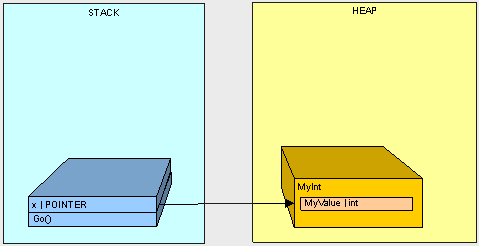
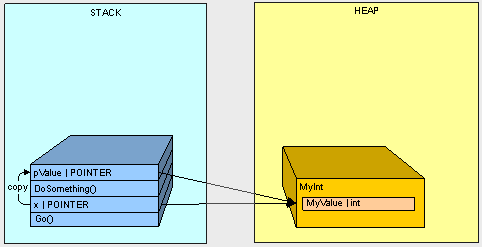
GitBook: [master] one page and 12 assets modified

Changed region(s): [[0.0, 0.0, 1.0, 0.9959], [0.1754, 0.0285, 0.263, 0.0854], [0.7307, 0.0285, 0.7891, 0.0569]]

diff --git a/c/c-essential-element/c-programming-language.md b/c/c-essential-element/c-programming-language.md
@@ -209,6 +209,12 @@ public int AddFive(int pValue)
 
 ![](../../.gitbook/assets/image%20%28172%29.png)
 
+
+
+
+
+
+
 ### Reference type 유형의 Class를 사용하여 Value type을 선언한다면?
 
 * C\#은 Multi - paradigmed의 스타일을 가졌기 때문에 여러 스타일에 대응이 되기 위해서 Reference type의 Class, 혹은 Array를 선언하여 하는 경우가 있습니다.
@@ -272,9 +278,11 @@ public int ReturnValue2()
 * MyInt x = new MyInt\(\); / MyInt y = new MyInt\(\);
 * 두 문장은 얼핏보면 다른 객체를 생성하는 것 같지만 실상은, 아래의 그림과 같습니다.
 
-![](../../.gitbook/assets/image%20%28180%29.png)
+![](../../.gitbook/assets/image%20%28181%29.png)
 
 * 각각 Pointer 형식 x, y라는 주소가 같은 객체에 접근하기 때문에, 위의 Code를 출력하면 결국 값은 변하지 않고 4를 출력하게 됩니다.
+
+
 
 
 
@@ -311,15 +319,15 @@ class Class1 {
 
 * 위와 같은 Code가 존재할 때 Stack은 다음 그림과 같이 존재하게 됩니다.
 
-![](../../.gitbook/assets/image%20%28187%29.png)
+![](../../.gitbook/assets/image%20%28189%29.png)
 
 * 다음으로 AddFive함수와 parameter의 데이터가 메모리에 할당되고, **int x는 AddFive의 parameter에 복사됩니다.**
 
-![](../../.gitbook/assets/image%20%28185%29.png)
+![](../../.gitbook/assets/image%20%28187%29.png)
 
 * AddFive\(\) 함수의 실행이 종료된다면, 다시 Go\(\) 함수로 전달이 되고 사용이 끝난 데이터들은 제거됩니다.
 
-![](../../.gitbook/assets/image%20%28188%29.png)
+![](../../.gitbook/assets/image%20%28190%29.png)
 
 #### Stack과 Heap을 사용하는 코드에 대한 메모리 할
 
@@ -342,7 +350,7 @@ public void DoSomething(MyStruct pValue) {
 
 * 위와 같은 Code가 존재할 때 Stack에서는 메모리를 아래와 같이 할당합니다.
 
-![](../../.gitbook/assets/image%20%28181%29.png)
+![](../../.gitbook/assets/image%20%28182%29.png)
 
 * 실제로 위의 그림과 같이 복사본 자체가 용량이 커지기 때문에 특정 상황에서는 굉장히 비효율적일 수 있습니다.
 * 해당 문제를 해결하기 위해 Passing Reference type or Call by Reference와 같은 방법으로 parameter를 전달합니다.
@@ -366,7 +374,13 @@ public void DoSomething(ref MyStruct pValue) {
   * Pointer를 통해 이미 할당되어 있는 메모리의 주소를 가지게 하여 구조체에 접근합니다.
   * 해당 Code에 관한 메모리 할당은 아래의 그림과 같습니다.
 
-![](../../.gitbook/assets/image%20%28179%29.png)
+![](../../.gitbook/assets/image%20%28180%29.png)
+
+
+
+
+
+
 
 ### Passing Reference types
 
@@ -386,7 +400,7 @@ public void Go() {
 
 * 위와 같은 코드는 아래의 그림과 같은 메모리 할당을 가지고 있습니다.
 
-![](../../.gitbook/assets/image%20%28186%29.png)
+![](../../.gitbook/assets/image%20%28188%29.png)
 
 * 위의 코드에서 Go\(\) 함수의 동작을 약간 변형하면 아래와 같습니다.
 
@@ -407,7 +421,7 @@ public void DoSomething(MyInt pValue) {
 
 * 위의 코드에서 실행되는 메모리 할당은 아래와 같습니다.
 
-![](../../.gitbook/assets/image%20%28184%29.png)
+![](../../.gitbook/assets/image%20%28186%29.png)
 
 * 그리고 메모리 할당의 순서는 다음과 같습니다.
 
@@ -418,6 +432,39 @@ public void DoSomething(MyInt pValue) {
 5. DoSomething은 MyInt Class parameter를 가지고 있기 때문에, 이 parameter에 대한 메모리를 할당합니다.
 6. MyInt Class의 멤버 변수인 MyValue에 접근하여 값을 할당하고 할당한 값은 Heap에서의 MyInt 메모리의 멤버변수에 할당합니다.
 7. 마지막으로 Stack의 MyInt Class를 동적 할당한 메모리를 가리키고 있는 x라는 변수의 멤버변수를 ToString\(\)을 통해 string으로 변하여 출력합니다.
+
+이번엔 상속된 Class 메모리 할당과 할당된 메모리의 값을 변경하는 과정에서의 Stack, Heap 동작을 살펴 보겠습니다.
+
+```csharp
+public class Thing  {  }  
+public class Animal:Thing  {  public int Weight;  }  
+public class Vegetable:Thing  {  public int Length;  }  
+
+public void Go()   {  
+   Thing x = new Animal();  
+   Switcharoo(ref x);  
+    Console.WriteLine("x is Animal    :   "  + (x is Animal).ToString());  
+    Console.WriteLine("x is Vegetable :   "  + (x is Vegetable).ToString());  
+}  
+
+public void Switcharoo(ref Thing pValue)  {  
+     pValue = new Vegetable();  
+}  
+```
+
+* 출력된 결과는 아래와 같습니다.
+  * x is Animal : False
+  * x is Vegetable : True
+* Thing의 자식 Class인 Animal Class를 동적할당하여 Thing Class 변수인 x에 할당하고 있습니다.
+* 다음으로 Switcharoo\(\) 함수를 통하여 parameter인 Thing Class 변수 pValue를 ref 키워드를 사용하여 실제 메모리에 할당된 값을 변경합니다.
+* 위 코드에서의 메모리는 아래와 같은 그림을 가지게 됩니다.
+
+![](../../.gitbook/assets/image%20%28185%29.png)
+
+* 위의 그림은 Switcharoo\(\) 함수의 메모리 할당까지의 그림입니다.
+* 함수가 실행된 이후 출력하면 아래와 같은 그림의 메모리 할당을 가지게 됩니다.
+
+![](../../.gitbook/assets/image%20%28179%29.png)
 
 
 
